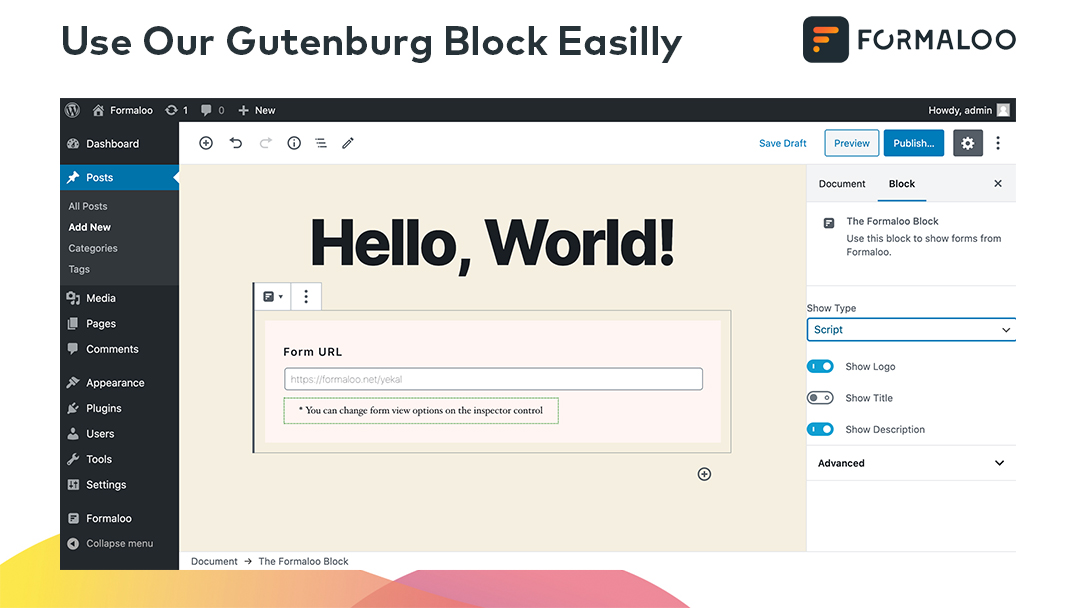
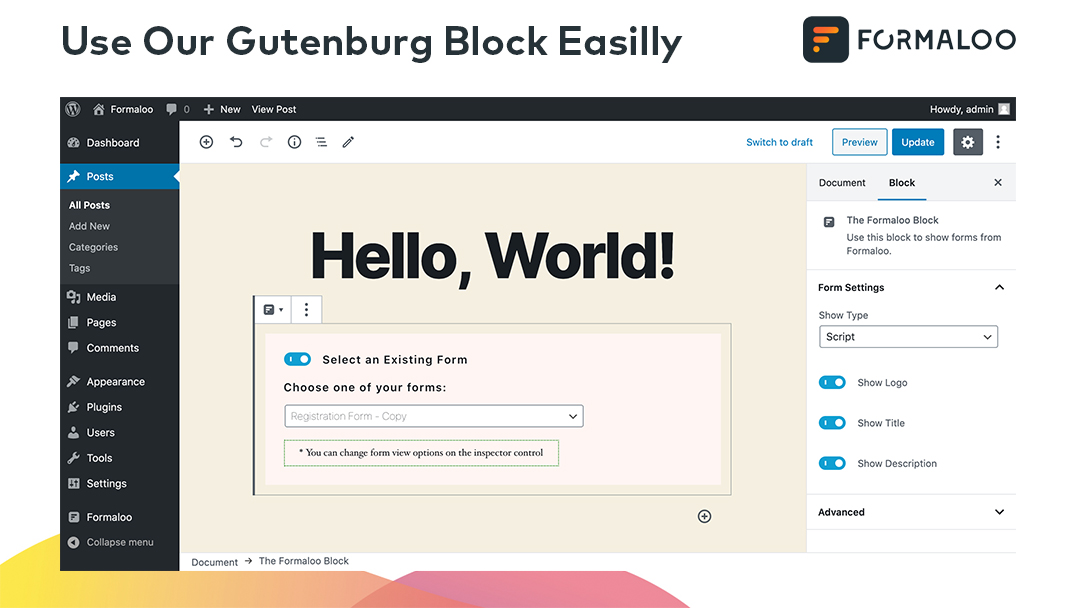
Improved Gutenberg Block 2

diff --git a/formaloo.php b/formaloo.php
@@ -2,7 +2,7 @@
 /**
  * Plugin Name:       Formaloo Form Builder
  * Description:       Easily embed Formaloo forms into your blog or WP pages.
- * Version:           1.5.0.1
+ * Version:           1.5.1.1
  * Author:            Formaloo team
  * Author URI:        https://formaloo.net/
  * Text Domain:       formaloo
@@ -16,7 +16,7 @@
  * Plugin constants
  */
 if(!defined('FORMALOO_PLUGIN_VERSION'))
-	define('FORMALOO_PLUGIN_VERSION', '1.5.0.1');
+	define('FORMALOO_PLUGIN_VERSION', '1.5.1.1');
 if(!defined('FORMALOO_URL'))
 	define('FORMALOO_URL', plugin_dir_url( __FILE__ ));
 if(!defined('FORMALOO_PATH'))

diff --git a/README.md b/README.md
@@ -8,7 +8,7 @@
 | ------------- |:-------------:|
 | Requires at least | 4.0 |
 | Tested up to | 5.4 |
-| Stable tag | 1.5.0.1 |
+| Stable tag | 1.5.1.1 |
 | Requires PHP | 5.2 |
 
 **Contributors:** Formaloo, idearun
@@ -91,6 +91,10 @@ Your forms will be autmatically GDPR & HIPAA compatible. Don't worry about anyth
 
 <img src="screenshots/screenshot-6.gif" alt="Screenshot 6" title="Screenshot 6" width="400" />
 
+7. Select an existing form of yours or just paste any Formaloo form URL to embed it on your website
+
+<img src="screenshots/screenshot-7.gif" alt="Screenshot 7" title="Screenshot 7" width="400" />
+
 ## Frequently Asked Questions
 
 1. Do I need to have coding skills to use Formaloo? 
@@ -171,6 +175,8 @@ See our <a href="https://api.formaloo.net/docs">API documentation</a> for more i
 - **Fixed:** Loadtime increased by 300% 
 - **Fixed:** Gutenberg compatibility improved
 
-### 1.5.0.1
+### 1.5.1.1
 - **Added:** Create & Edit Feedback Widgets for your Website
+- **Added:** Select an existing form of your Formaloo account in the Gutenberg block in addition to pasting any Formaloo form URL
+- **Added:** Spanish Language Support
 - Minior bug fixes and improvements
